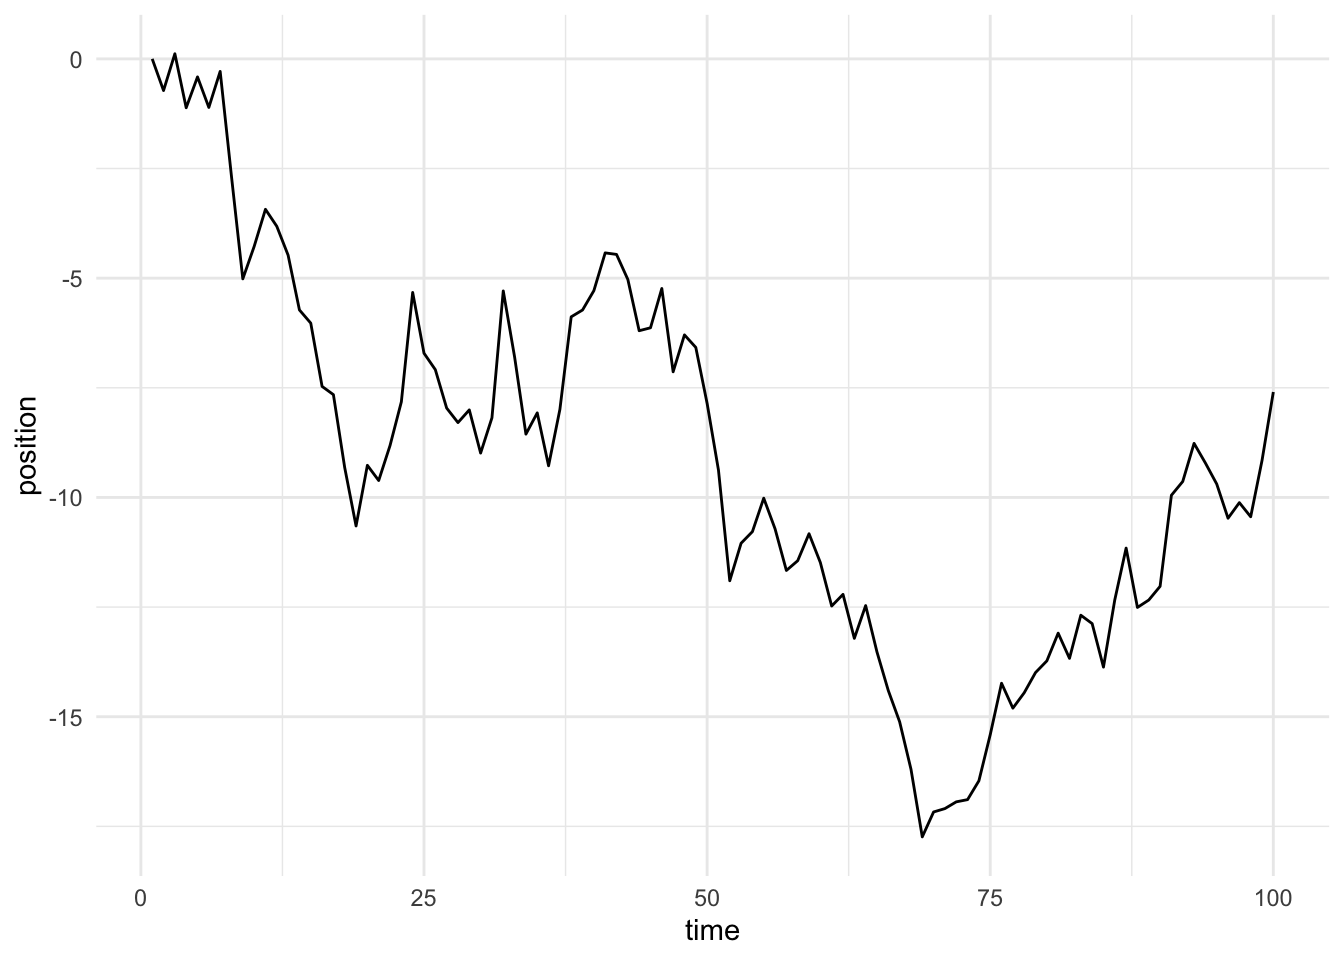
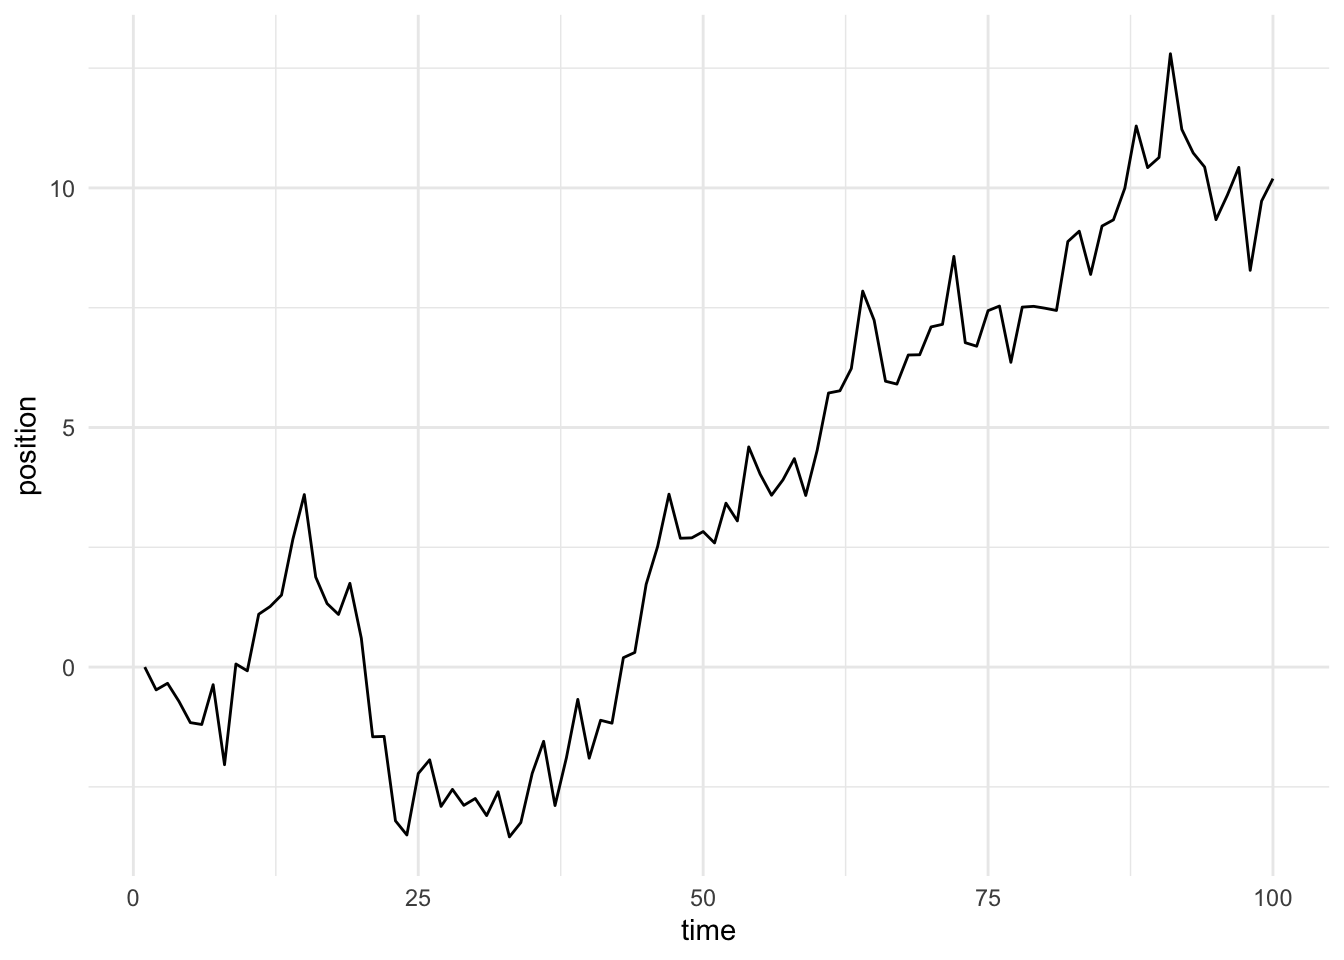
update list

diff --git a/docs/post/2021-01-09-a-gentle-introduction-to-markov-chains-and-mcmc/index.html b/docs/post/2021-01-09-a-gentle-introduction-to-markov-chains-and-mcmc/index.html
@@ -170,16 +170,16 @@ randomly_walk &lt;- function(.ix = c(), n_steps = 100) {
 <pre><code>## # A tibble: 100 x 1
 ##    position
 ##       &lt;dbl&gt;
-##  1    0    
-##  2   -0.722
-##  3    0.116
-##  4   -1.11 
-##  5   -0.412
-##  6   -1.11 
-##  7   -0.286
-##  8   -2.68 
-##  9   -5.02 
-## 10   -4.28 
+##  1   0     
+##  2  -0.476 
+##  3  -0.339 
+##  4  -0.715 
+##  5  -1.16  
+##  6  -1.20  
+##  7  -0.368 
+##  8  -2.04  
+##  9   0.0643
+## 10  -0.0779
 ## # … with 90 more rows</code></pre>
 <p>That table shows a random walk with 100 steps, generated by adding standard normal noise to the position after each step. Let’s plot it and see what it looks like.</p>
 <pre class="r"><code>random_walk %&gt;%
@@ -244,13 +244,10 @@ twenty_walks %&gt;%
 <ol style="list-style-type: decimal">
 <li>Pick a random island to start on.</li>
 <li>On each day, randomly select a new island to go to (the <strong>proposal island</strong>).</li>
-<li></li>
-</ol>
-<ul>
+<li><ol style="list-style-type: lower-roman">
 <li>If the proposal island has more people than the current island, go to the proposal island.</li>
 <li>If it has fewer people, then flip a coin with probability equal to the proposal island’s population divided by the current island’s. If the coin comes up heads, go to the proposal island.</li>
-</ul>
-<ol start="4" style="list-style-type: decimal">
+</ol></li>
 <li>Do it again a bunch of times.</li>
 </ol>
 <p>So, how does this algorithm perform? Let’s try it out!</p>
@@ -262,10 +259,10 @@ twenty_walks %&gt;%
 <pre><code>## # A tibble: 4 x 3
 ##   island days_spent day_proportion
 ##    &lt;dbl&gt;      &lt;int&gt;          &lt;dbl&gt;
-## 1      1          4         0.364 
-## 2      2          4         0.364 
-## 3      3          1         0.0909
-## 4      4          2         0.182</code></pre>
+## 1      1          1         0.0909
+## 2      2          3         0.273 
+## 3      3          4         0.364 
+## 4      4          3         0.273</code></pre>
 <p>Unsurprisingly, with only <span class="math inline">\(10\)</span> iterations the algorithm does not perform particularly well. But what about if we give it a lot more time? Let’s try <span class="math inline">\(10,000\)</span> iterations.</p>
 <pre class="r"><code>some_islands &lt;- run_rwmh(n_iters = 10000) %&gt;%
   tibble(island = .) %&gt;%
@@ -280,11 +277,11 @@ some_islands</code></pre>
 <pre><code>## # A tibble: 4 x 4
 ##   island days_spent day_proportion error_margin
 ##    &lt;dbl&gt;      &lt;int&gt;          &lt;dbl&gt;        &lt;dbl&gt;
-## 1      1        961         0.0961    -0.00391 
-## 2      2       1994         0.199     -0.000620
-## 3      3       3023         0.302      0.00227 
-## 4      4       4023         0.402      0.00226</code></pre>
-<p>Much better! After <span class="math inline">\(10,000\)</span> iterations, we’re spending almost the exact proportion of time on each island that we want to be, as evidenced by the tiny error margins. In addition, the standard deviation of the error margins is 0.00294, which is tiny. That’s awesome! But what about if the system is more complex? Like, what if we had 100 islands?</p>
+## 1      1       1017          0.102     0.00169 
+## 2      2       2003          0.200     0.000280
+## 3      3       2979          0.298    -0.00213 
+## 4      4       4002          0.400     0.000160</code></pre>
+<p>Much better! After <span class="math inline">\(10,000\)</span> iterations, we’re spending almost the exact proportion of time on each island that we want to be, as evidenced by the tiny error margins. In addition, the standard deviation of the error margins is 0.00158, which is tiny. That’s awesome! But what about if the system is more complex? Like, what if we had 100 islands?</p>
 <pre class="r"><code>more_islands &lt;- run_rwmh(n_iters = 10000, island_populations = 1:100) %&gt;%
   tibble(island = .) %&gt;%
   group_by(island) %&gt;%
@@ -295,21 +292,21 @@ some_islands</code></pre>
 mean_error_margin &lt;- mean(more_islands$error_margin)
 sd_error_margin &lt;- sd(more_islands$error_margin)
 more_islands</code></pre>
-<pre><code>## # A tibble: 100 x 4
+<pre><code>## # A tibble: 99 x 4
 ##    island days_spent day_proportion error_margin
 ##     &lt;dbl&gt;      &lt;int&gt;          &lt;dbl&gt;        &lt;dbl&gt;
-##  1      1          1       0.000100  -0.0000980 
-##  2      2          4       0.000400   0.00000392
-##  3      3          2       0.000200  -0.000394  
-##  4      4          8       0.000800   0.00000784
-##  5      5          8       0.000800  -0.000190  
-##  6      6         10       0.00100   -0.000188  
-##  7      7         13       0.00130   -0.0000863 
-##  8      8         22       0.00220    0.000616  
-##  9      9         19       0.00190    0.000118  
-## 10     10         25       0.00250    0.000520  
-## # … with 90 more rows</code></pre>
-<p>No problem! Even with the extra islands, the mean error margin is still zero, and the standard deviation of the error margins is 0.00152, which is miniscule. It’s true that a more complex system (i.e. more islands) would mean that we need more iterations to converge in probability to the proportions we’re shooting for, but the algorithm will still work with enough time.</p>
+##  1      1          2       0.000200   0.00000184
+##  2      2          6       0.000600   0.000204  
+##  3      4          6       0.000600  -0.000193  
+##  4      5          7       0.000700  -0.000291  
+##  5      6          8       0.000800  -0.000389  
+##  6      7         19       0.00190    0.000513  
+##  7      8         15       0.00150   -0.0000853 
+##  8      9         15       0.00150   -0.000283  
+##  9     10         17       0.00170   -0.000282  
+## 10     11         22       0.00220    0.0000203 
+## # … with 89 more rows</code></pre>
+<p>No problem! Even with the extra islands, the mean error margin is still zero, and the standard deviation of the error margins is 0.00143, which is miniscule. It’s true that a more complex system (i.e. more islands) would mean that we need more iterations to converge in probability to the proportions we’re shooting for, but the algorithm will still work with enough time.</p>
 <p>This algorithm is called the Metropolis-Hastings Algorithm, and it’s one of many in the class of Markov Chain Monte Carlo algorithms. Some others are the Gibbs Sampler and Hamiltonian Monte Carlo, both of which are frequently used in Bayesian statistics for estimating the parameters of regression models with hundreds of thousands of parameters. In short, these algorithms allow us to solve problems that were literally impossible to solve only two decades ago or so, which is an amazing feat!</p>
 </div>
 <div id="recap" class="section level2">

diff --git a/content/post/2021-01-09-a-gentle-introduction-to-markov-chains-and-mcmc/index.html b/content/post/2021-01-09-a-gentle-introduction-to-markov-chains-and-mcmc/index.html
@@ -69,16 +69,16 @@ randomly_walk &lt;- function(.ix = c(), n_steps = 100) {
 <pre><code>## # A tibble: 100 x 1
 ##    position
 ##       &lt;dbl&gt;
-##  1    0    
-##  2   -0.722
-##  3    0.116
-##  4   -1.11 
-##  5   -0.412
-##  6   -1.11 
-##  7   -0.286
-##  8   -2.68 
-##  9   -5.02 
-## 10   -4.28 
+##  1   0     
+##  2  -0.476 
+##  3  -0.339 
+##  4  -0.715 
+##  5  -1.16  
+##  6  -1.20  
+##  7  -0.368 
+##  8  -2.04  
+##  9   0.0643
+## 10  -0.0779
 ## # … with 90 more rows</code></pre>
 <p>That table shows a random walk with 100 steps, generated by adding standard normal noise to the position after each step. Let’s plot it and see what it looks like.</p>
 <pre class="r"><code>random_walk %&gt;%
@@ -143,13 +143,10 @@ twenty_walks %&gt;%
 <ol style="list-style-type: decimal">
 <li>Pick a random island to start on.</li>
 <li>On each day, randomly select a new island to go to (the <strong>proposal island</strong>).</li>
-<li></li>
-</ol>
-<ul>
+<li><ol style="list-style-type: lower-roman">
 <li>If the proposal island has more people than the current island, go to the proposal island.</li>
 <li>If it has fewer people, then flip a coin with probability equal to the proposal island’s population divided by the current island’s. If the coin comes up heads, go to the proposal island.</li>
-</ul>
-<ol start="4" style="list-style-type: decimal">
+</ol></li>
 <li>Do it again a bunch of times.</li>
 </ol>
 <p>So, how does this algorithm perform? Let’s try it out!</p>
@@ -161,10 +158,10 @@ twenty_walks %&gt;%
 <pre><code>## # A tibble: 4 x 3
 ##   island days_spent day_proportion
 ##    &lt;dbl&gt;      &lt;int&gt;          &lt;dbl&gt;
-## 1      1          4         0.364 
-## 2      2          4         0.364 
-## 3      3          1         0.0909
-## 4      4          2         0.182</code></pre>
+## 1      1          1         0.0909
+## 2      2          3         0.273 
+## 3      3          4         0.364 
+## 4      4          3         0.273</code></pre>
 <p>Unsurprisingly, with only <span class="math inline">\(10\)</span> iterations the algorithm does not perform particularly well. But what about if we give it a lot more time? Let’s try <span class="math inline">\(10,000\)</span> iterations.</p>
 <pre class="r"><code>some_islands &lt;- run_rwmh(n_iters = 10000) %&gt;%
   tibble(island = .) %&gt;%
@@ -179,11 +176,11 @@ some_islands</code></pre>
 <pre><code>## # A tibble: 4 x 4
 ##   island days_spent day_proportion error_margin
 ##    &lt;dbl&gt;      &lt;int&gt;          &lt;dbl&gt;        &lt;dbl&gt;
-## 1      1        961         0.0961    -0.00391 
-## 2      2       1994         0.199     -0.000620
-## 3      3       3023         0.302      0.00227 
-## 4      4       4023         0.402      0.00226</code></pre>
-<p>Much better! After <span class="math inline">\(10,000\)</span> iterations, we’re spending almost the exact proportion of time on each island that we want to be, as evidenced by the tiny error margins. In addition, the standard deviation of the error margins is 0.00294, which is tiny. That’s awesome! But what about if the system is more complex? Like, what if we had 100 islands?</p>
+## 1      1       1017          0.102     0.00169 
+## 2      2       2003          0.200     0.000280
+## 3      3       2979          0.298    -0.00213 
+## 4      4       4002          0.400     0.000160</code></pre>
+<p>Much better! After <span class="math inline">\(10,000\)</span> iterations, we’re spending almost the exact proportion of time on each island that we want to be, as evidenced by the tiny error margins. In addition, the standard deviation of the error margins is 0.00158, which is tiny. That’s awesome! But what about if the system is more complex? Like, what if we had 100 islands?</p>
 <pre class="r"><code>more_islands &lt;- run_rwmh(n_iters = 10000, island_populations = 1:100) %&gt;%
   tibble(island = .) %&gt;%
   group_by(island) %&gt;%
@@ -194,21 +191,21 @@ some_islands</code></pre>
 mean_error_margin &lt;- mean(more_islands$error_margin)
 sd_error_margin &lt;- sd(more_islands$error_margin)
 more_islands</code></pre>
-<pre><code>## # A tibble: 100 x 4
+<pre><code>## # A tibble: 99 x 4
 ##    island days_spent day_proportion error_margin
 ##     &lt;dbl&gt;      &lt;int&gt;          &lt;dbl&gt;        &lt;dbl&gt;
-##  1      1          1       0.000100  -0.0000980 
-##  2      2          4       0.000400   0.00000392
-##  3      3          2       0.000200  -0.000394  
-##  4      4          8       0.000800   0.00000784
-##  5      5          8       0.000800  -0.000190  
-##  6      6         10       0.00100   -0.000188  
-##  7      7         13       0.00130   -0.0000863 
-##  8      8         22       0.00220    0.000616  
-##  9      9         19       0.00190    0.000118  
-## 10     10         25       0.00250    0.000520  
-## # … with 90 more rows</code></pre>
-<p>No problem! Even with the extra islands, the mean error margin is still zero, and the standard deviation of the error margins is 0.00152, which is miniscule. It’s true that a more complex system (i.e. more islands) would mean that we need more iterations to converge in probability to the proportions we’re shooting for, but the algorithm will still work with enough time.</p>
+##  1      1          2       0.000200   0.00000184
+##  2      2          6       0.000600   0.000204  
+##  3      4          6       0.000600  -0.000193  
+##  4      5          7       0.000700  -0.000291  
+##  5      6          8       0.000800  -0.000389  
+##  6      7         19       0.00190    0.000513  
+##  7      8         15       0.00150   -0.0000853 
+##  8      9         15       0.00150   -0.000283  
+##  9     10         17       0.00170   -0.000282  
+## 10     11         22       0.00220    0.0000203 
+## # … with 89 more rows</code></pre>
+<p>No problem! Even with the extra islands, the mean error margin is still zero, and the standard deviation of the error margins is 0.00143, which is miniscule. It’s true that a more complex system (i.e. more islands) would mean that we need more iterations to converge in probability to the proportions we’re shooting for, but the algorithm will still work with enough time.</p>
 <p>This algorithm is called the Metropolis-Hastings Algorithm, and it’s one of many in the class of Markov Chain Monte Carlo algorithms. Some others are the Gibbs Sampler and Hamiltonian Monte Carlo, both of which are frequently used in Bayesian statistics for estimating the parameters of regression models with hundreds of thousands of parameters. In short, these algorithms allow us to solve problems that were literally impossible to solve only two decades ago or so, which is an amazing feat!</p>
 </div>
 <div id="recap" class="section level2">
